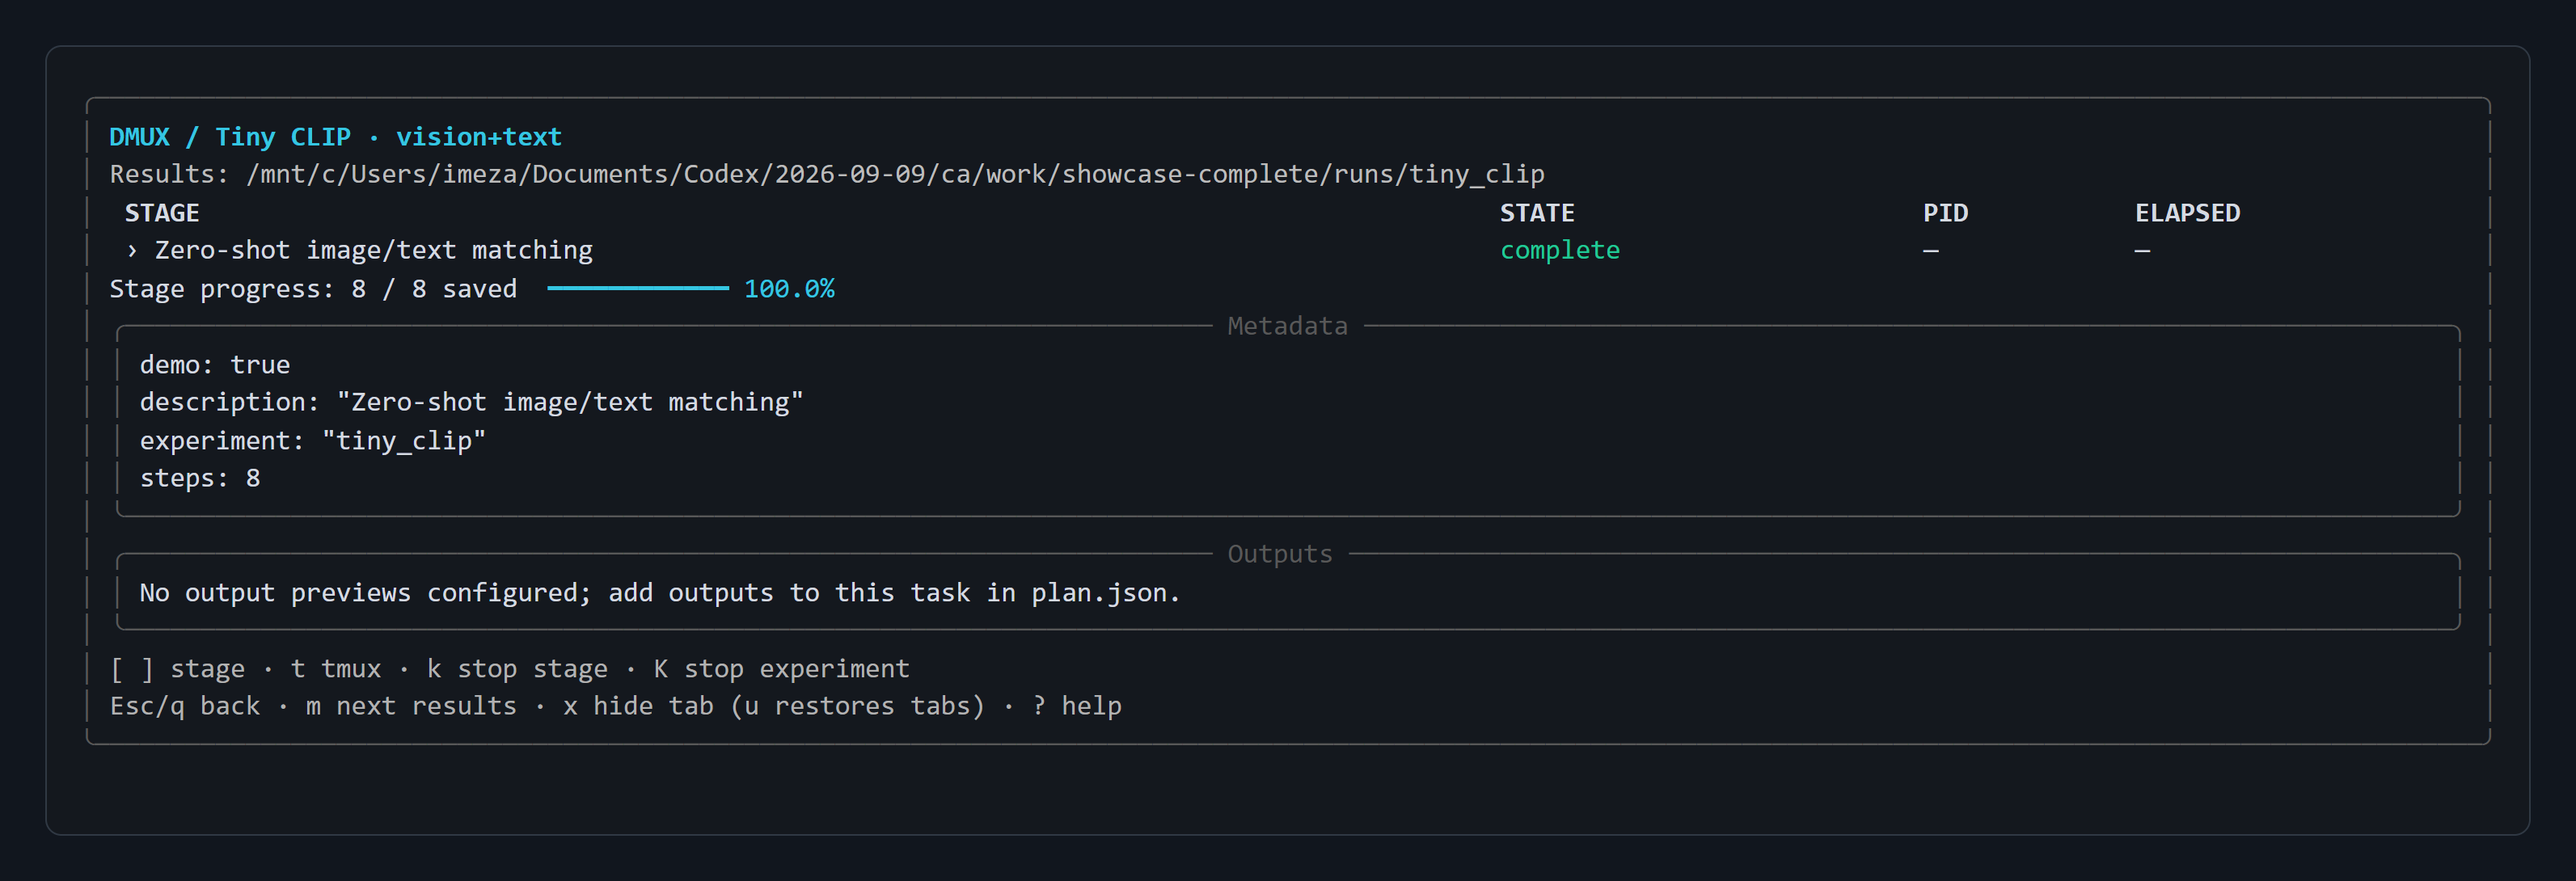
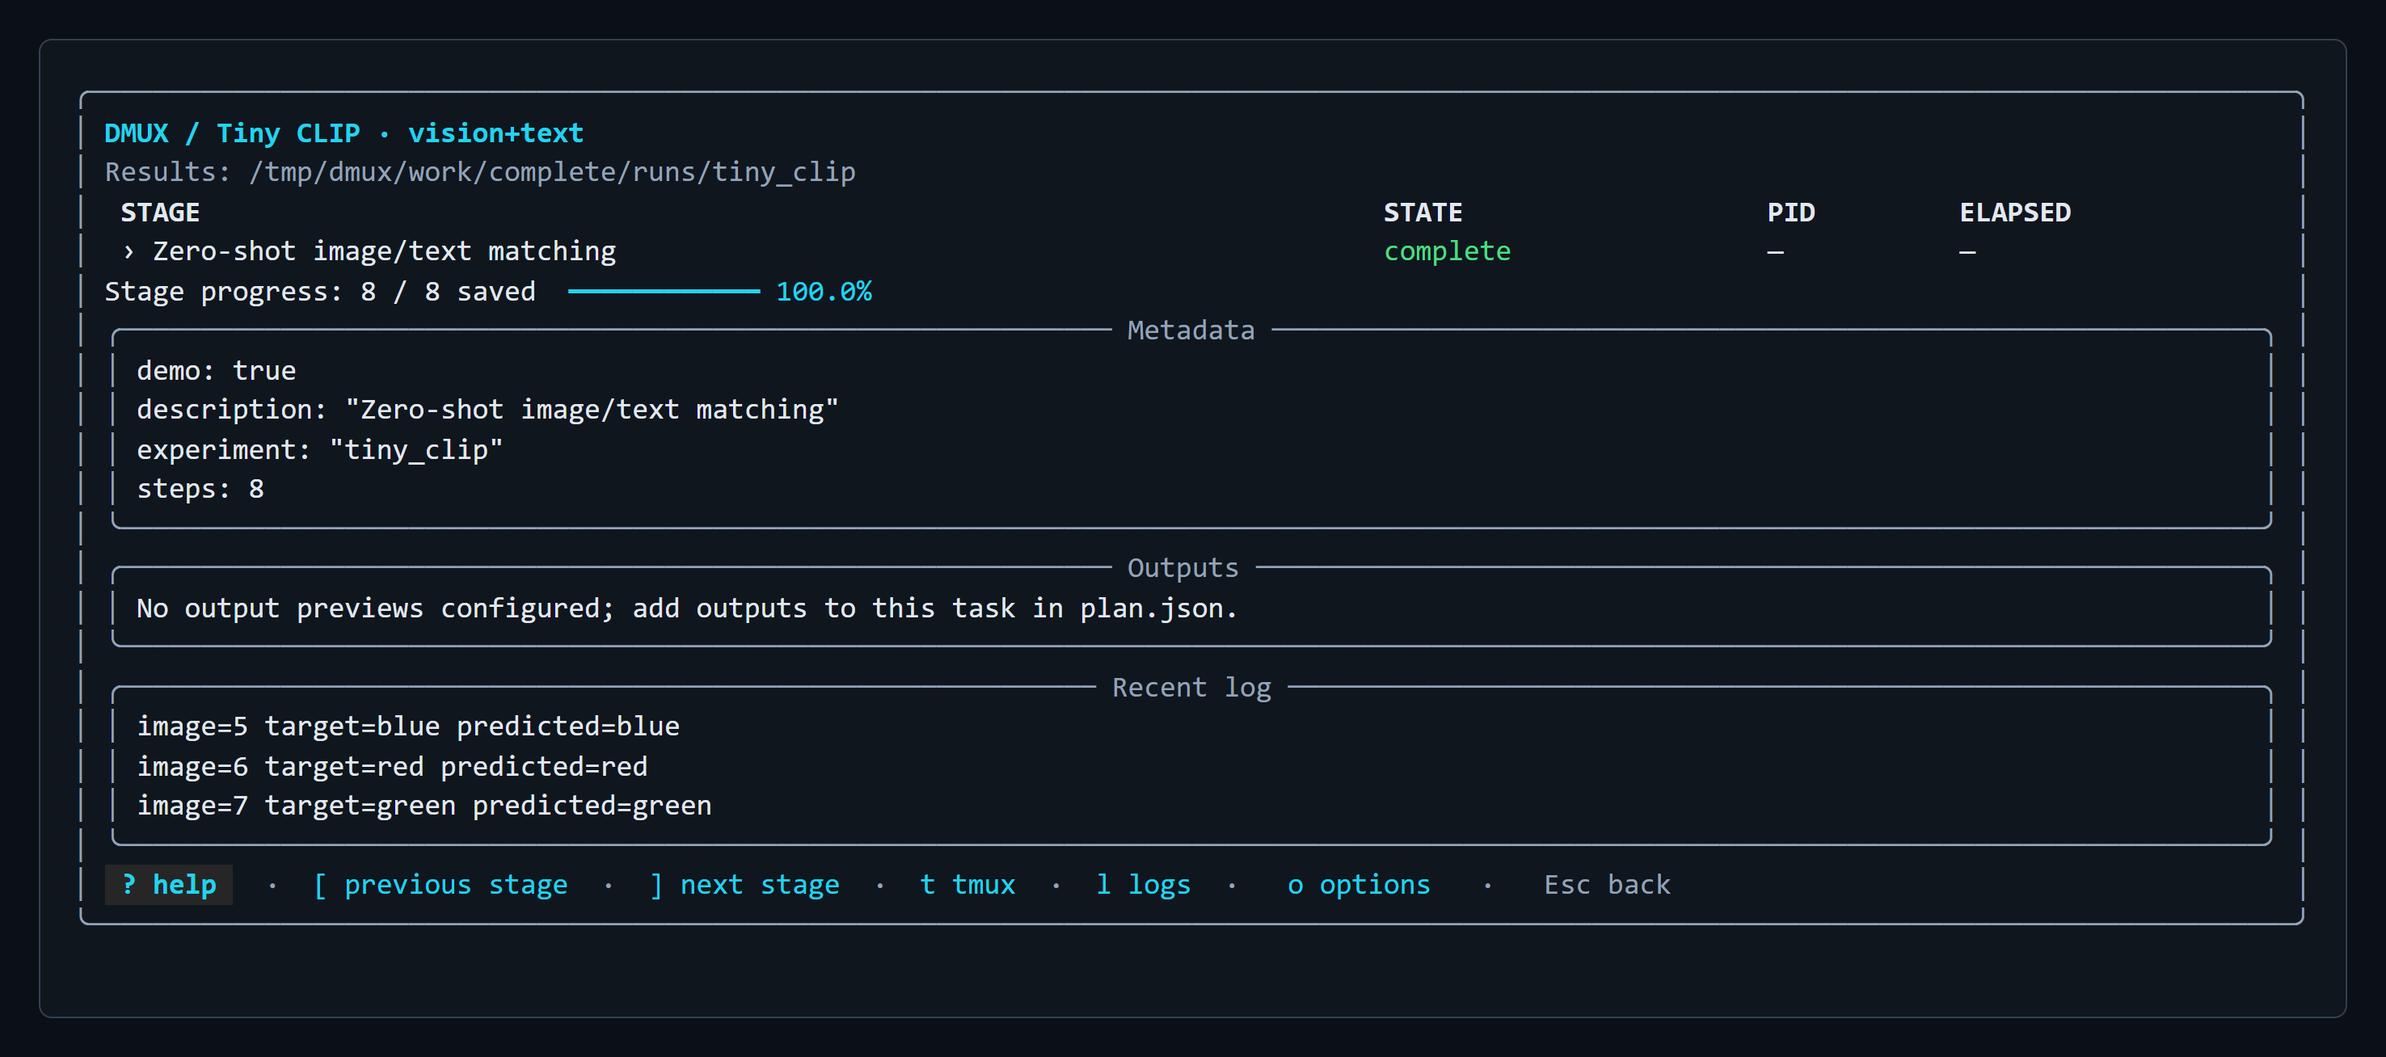
docs: refresh screenshots with current interface captures

diff --git a/README.md b/README.md
@@ -23,8 +23,8 @@ identities, and output locations come from your plan, not a bundled model roster
 
 ![Your experiments. One terminal. Real dmux demo captures showing the experiment overview and live result plots](https://raw.githubusercontent.com/Mezosky/dmux/main/screenshots/dmux-highlight.png)
 
-These demo captures are from `659298d` (September 9, 2026), before the latest
-layout and label fixes. See [capture notes](https://github.com/Mezosky/dmux/blob/main/screenshots/README.md) for details.
+These demo captures are from `e1d7fa3` (September 10, 2026).
+See [capture notes](https://github.com/Mezosky/dmux/blob/main/screenshots/README.md) for details.
 
 Compare vision/text, language, tabular, and audio experiments in one overview.
 Use `n` / `p` to select a tab, then Enter to inspect it. The audio example has
@@ -104,7 +104,7 @@ opened experiment; `x` closes its recent tab without stopping jobs.
 
 This capture shows three running experiments with matched worker PIDs and one
 completed audio run. Enter inspects the selected experiment without starting it.
-After you open experiments, the `OPEN` strip provides shortcuts to recent details.
+The `OPEN` strip includes the recently opened Bigram LM experiment.
 
 The home screen compares stage states, never a combined percentage of unrelated
 epochs, predictions, and checkpoints. Missing projects remain visible as
@@ -159,19 +159,20 @@ dmux json --project-root /tmp/dmux-demo --plan-dir monitor
 
 ![Live bigram language-model training at 28 of 300 saved epochs, with worker PID and a linked tmux session](https://raw.githubusercontent.com/Mezosky/dmux/main/screenshots/live-progress.png)
 
-- The top counter summarizes the whole plan. Here, `87 / 900` records are
+- The top counter summarizes the whole plan. Here, `84 / 900` records are
   saved across the numeric stages and `1/4` stages are complete.
 - The selected experiment and its current stage have separate progress displays.
   The selected Bigram LM stage has `28 / 300` saved epochs (`9.3%`); this
   measures saved work, not elapsed time or an ETA.
 - The active-process line shows the matched PID and its elapsed runtime. Press
   `t` to browse the linked tmux workspace, or Enter to inspect the experiment.
-- GPU sampling is disabled for this CPU demo. This older capture labels it
-  unavailable; current builds explicitly show that sampling is disabled.
+- GPU sampling is disabled for this CPU demo, as the header indicates.
   When enabled, GPU readings describe device-wide activity, not usage attributed
   to one experiment.
 
-Closing dmux leaves that process running; explicit stops require confirmation.
+These captures used `demo --live --keep-running`. Ordinary watch/home leaves
+processes running; closing the default live demo launcher cleans up its own
+workers and sessions.
 
 ### Connect existing experiment files
 
@@ -225,7 +226,7 @@ directory. Absolute task paths remain absolute. A plan can also declare separate
 `root` and `results_dir` settings for each named project; see
 [the project configuration](https://github.com/Mezosky/dmux/blob/main/docs/PLAN_SCHEMA.md#multiple-projects).
 
-![Live experiment details at 38 of 300 epochs, with worker PID, loss and perplexity plots, demo metadata, and configured output previews](https://raw.githubusercontent.com/Mezosky/dmux/main/screenshots/experiment-details-live.png)
+![Live experiment details at 30 of 300 epochs, with worker PID, loss and perplexity plots, demo metadata, and configured output previews](https://raw.githubusercontent.com/Mezosky/dmux/main/screenshots/experiment-details-live.png)
 
 Enter opens this detail view. Use `[` / `]` to choose a stage and Esc to return
 to the overview. The running stage shows its PID, elapsed runtime, and process
@@ -256,10 +257,11 @@ by path and size.
 
 ### Small result plots, only when opened
 
-![Compact live experiment details showing loss and perplexity sparklines with latest values, visible ranges, and 46 recent samples](https://raw.githubusercontent.com/Mezosky/dmux/main/screenshots/result-plots.png)
+![Compact live experiment details showing loss and perplexity sparklines with latest values, visible ranges, and 34 recent samples](https://raw.githubusercontent.com/Mezosky/dmux/main/screenshots/result-plots.png)
 
-This separate live capture shows `43 / 300` saved epochs and bounded recent
-result samples. The compact view prioritizes results over metadata and previews.
+This separate live capture shows `34 / 300` saved epochs and 34 recent result
+samples. The compact view fits plots, resource readings, metadata and output
+filenames within the available terminal height.
 
 Use a task's optional `metrics` list to choose what interests you. For example,
 with JSONL records containing `step`, `loss`, and `accuracy`:
@@ -339,9 +341,9 @@ Press `t` from the dashboard or run `dmux sessions` directly. Use `/` to search,
 Tab to switch between sessions and windows, and Enter to open the selection.
 Project and result directories appear for workspaces created by dmux.
 
-![tmux session browser linking the zoo-tiny_llm session and its chat and experiment windows to tiny_llm, with separate project and results paths](https://raw.githubusercontent.com/Mezosky/dmux/main/screenshots/tmux-session-browser.png)
+![tmux session browser linking the demo-tiny_llm session and its chat and experiment windows to tiny_llm, with separate project and results paths](https://raw.githubusercontent.com/Mezosky/dmux/main/screenshots/tmux-session-browser.png)
 
-The selected `zoo-tiny_llm` session contains independent `chat` and `experiment`
+The selected `demo-tiny_llm` session contains independent `chat` and `experiment`
 windows and is linked to `tiny_llm`. Use the arrow keys or `j` / `k` to select a
 session; Tab lets you choose a specific window/pane before pressing Enter.
 The project and results paths show which workspace you are entering. Browsing
@@ -496,6 +498,26 @@ for explicitly configured result comparison. Preferences use CLI > `DMUX_*`
 environment > `settings.json` > defaults. Themes include cyan-dark, light,
 high-contrast and monochrome; ASCII boxes and a compact banner are available.
 See [settings](https://github.com/Mezosky/dmux/blob/main/docs/SETTINGS.md).
+
+<details>
+<summary>View options, log following, and run comparison</summary>
+
+Options show each preference's value and source, including theme, logo style,
+mouse support and refresh interval.
+
+![Options with cyan-dark theme, logo and mouse preferences, and CLI/default sources](https://raw.githubusercontent.com/Mezosky/dmux/main/screenshots/preferences.png)
+
+The configured training log opens in follow mode with search and a bounded
+retained window.
+
+![Bigram LM training log in follow mode with a bounded 37-line window](https://raw.githubusercontent.com/Mezosky/dmux/main/screenshots/log-viewer.png)
+
+Compare loss from two completed Bigram LM demos trained for 8 and 64 epochs.
+Latest and window-best values come from the captured samples.
+
+![Loss comparison between completed 8-epoch and 64-epoch Bigram LM runs](https://raw.githubusercontent.com/Mezosky/dmux/main/screenshots/run-comparison.png)
+
+</details>
 
 ```bash
 dmux settings set theme high-contrast

diff --git a/screenshots/README.md b/screenshots/README.md
@@ -1,44 +1,45 @@
 # Demo capture notes
 
-These images were supplied in `dmux-screenshots.zip` and captured from commit
-[`659298d`](https://github.com/Mezosky/dmux/commit/659298d) on September 9, 2026.
-The supplied capture notes describe real demo runs on WSL/Linux: terminal output
-was collected with `tmux capture-pane` and rendered in xterm.js at 160 columns
-and 2× resolution. The interface text, counts, PIDs, and plots are captured
-output, not generated artwork.
+These images were supplied in `dmux-2026-09-10.zip` and captured from dmux 0.2.0,
+commit [`e1d7fa3`](https://github.com/Mezosky/dmux/commit/e1d7fa3), on September 10,
+2026. The supplied notes describe ten real terminal captures from private tmux
+panes, replayed in xterm.js at 140 columns and 2× resolution, with height varied
+by view. The interface text, counts, PIDs, and plots were not retouched.
 
-The captures predate the layout and telemetry fixes in
-[`9177071`](https://github.com/Mezosky/dmux/commit/9177071). They still show short
-tab labels, absolute output-preview paths, the home header's “1 projects” typo,
-and “GPU unavailable” for a demo with sampling disabled. Current builds fit
-panels to available rows, use relative preview labels and wider tabs, correct
-the singular label, and distinguish disabled sampling from telemetry errors.
-These images illustrate the workflows; they are not verification of those fixes.
+Code and demos ran under `/tmp/dmux/work`; visible paths belong to that capture
+environment. Output previews display relative filenames. GPU sampling was
+disabled. The live demo used `--keep-running`: ordinary watch/home leaves workers
+running, while closing the default live demo launcher cleans up its own workers
+and sessions.
 
 | Image | Captured state |
 | --- | --- |
 | [Overview](experiment-overview.png) | Four completed experiments, 24/24 numeric records; audio completion is artifact-only. |
-| [Global home](global-home.png) | One registered project, three running workers, one completed audio run; no recent tabs opened yet. |
-| [Live progress](live-progress.png) | Overall 87/900 saved; selected Bigram LM stage 28/300 (9.3%). |
-| [Live details](experiment-details-live.png) | Bigram LM 38/300 (12.7%), loss/perplexity, demo metadata, and three configured output previews. |
-| [Result plots](result-plots.png) | Separate live capture at 43/300 (14.3%), with 46 recent metric samples. |
+| [Global home](global-home.png) | One registered project, three running workers, one completed audio run; a recent Bigram LM tab. |
+| [Live progress](live-progress.png) | Overall 84/900 saved; selected Bigram LM stage 28/300 (9.3%). |
+| [Live details](experiment-details-live.png) | Bigram LM 30/300 (10.0%), loss/perplexity, matched-process resources, metadata, relative output previews and recent logs. |
+| [Result plots](result-plots.png) | Separate live capture at 34/300 (11.3%), with 34 recent metric samples, resources, metadata and output filenames. |
 | [Unconfigured previews](experiment-details-unconfigured.png) | Completed Tiny CLIP at 8/8, using a separate plan without output previews or metrics. |
-| [tmux browser](tmux-session-browser.png) | Explicitly linked `zoo-tiny_llm` session with `chat` and `experiment` windows. |
+| [tmux browser](tmux-session-browser.png) | Explicitly linked `demo-tiny_llm` session with `chat` and `experiment` windows. |
+| [Log viewer](log-viewer.png) | Bigram LM training log in follow mode, with search and a bounded 37-line retained window. |
+| [Options](preferences.png) | Theme, logo, mouse, refresh and other preferences, with their CLI/default sources. |
+| [Run comparison](run-comparison.png) | Loss from completed 8-epoch and 64-epoch Bigram LM demo runs, sorted by latest loss. |
 
-Live metrics and previews refresh independently of progress snapshots, so their
+Live views were captured at different moments. Metrics and previews refresh
+independently of progress snapshots, so their
 sample counts can be slightly ahead. Demo chat windows are shells; they do not
 depict AI conversations. Paths and PIDs belong to the capture environment.
 
 ## Showcase artwork
 
 [dmux-highlight.png](dmux-highlight.png) combines the completed overview and a
-separate live detail capture. According to the supplied generation notes, only
-the abstract navy/cyan background was image-generated. The real terminal
-captures, headings, frames, and glow were composed with HTML/CSS and exported
-to a static PNG. It preserves the visual effect without requiring an embedded
-web page. It is not an animation or a single simultaneous dashboard state.
+separate live detail excerpt. According to the supplied notes, typography,
+background and framing were composed with HTML/CSS; no UI content was
+AI-generated. It is a static PNG, not a single simultaneous dashboard state.
 
 The repository uses the PNG export and individual screenshots. The supplied
 HTML files embed duplicate image data and remain in the original local archive.
-All imported PNGs are losslessly compressed; their decoded pixels are unchanged.
+All eleven PNGs are copied byte-for-byte from the supplied archive. Their SHA-256
+hashes and dimensions match [the supplied manifest](manifest.json); its file paths
+are relative to the repository root.
 Screenshots remain excluded from package distributions through `MANIFEST.in`.
